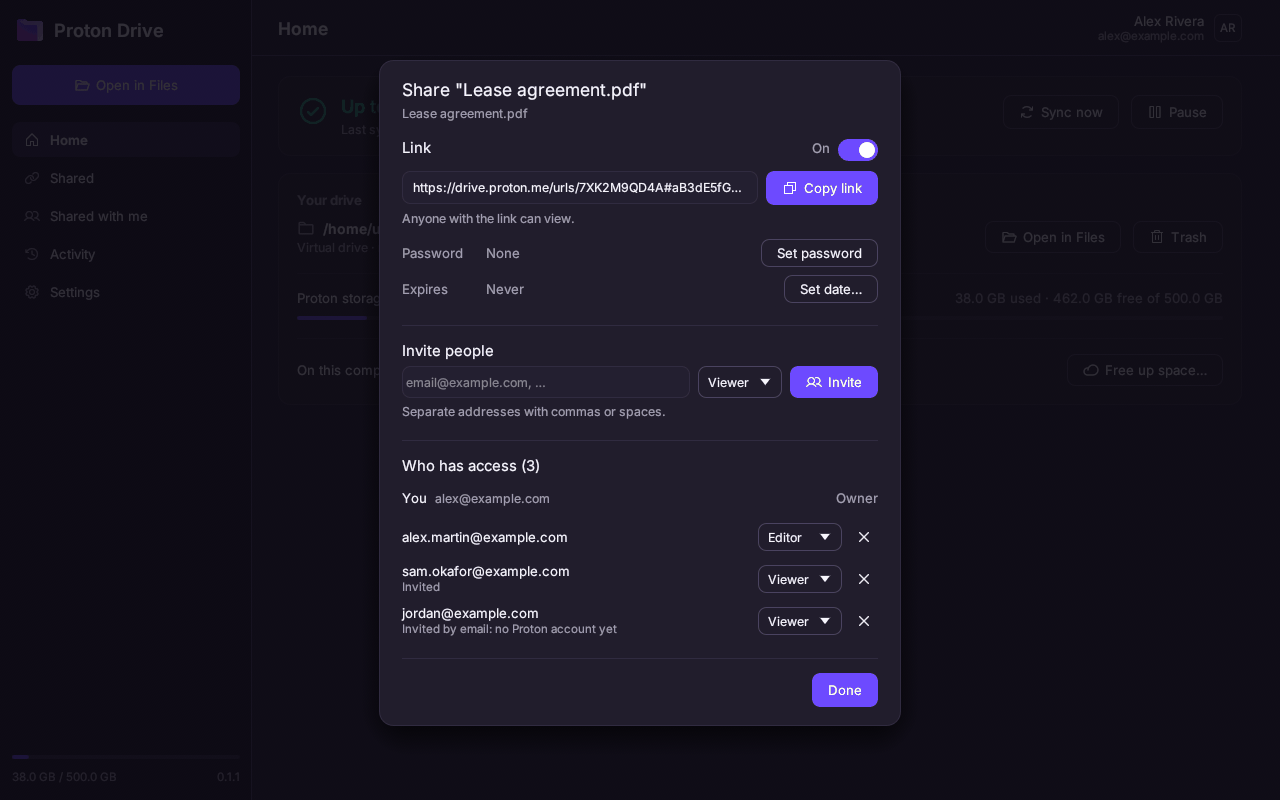
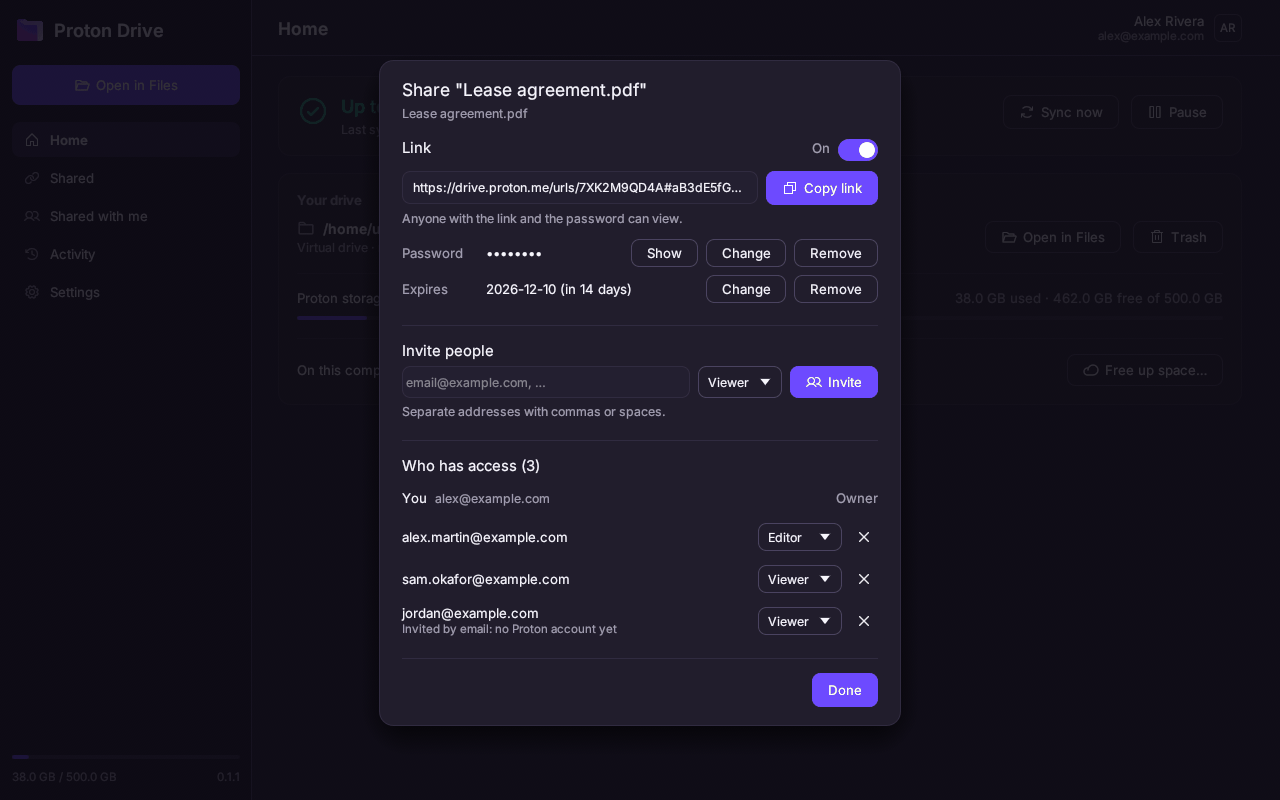
fix(scripts): the screenshot script works on pure Wayland, and the Share window matches its Shared row
Refs #520

diff --git a/native-gui/src/share.rs b/native-gui/src/share.rs
@@ -405,6 +405,18 @@ pub fn fake_share_info(state: &str, now_ms: i64, offset_at: impl Fn(i64) -> i64)
                 person("jordan@example.com", Role::Viewer, PersonState::InvitedNotProton),
             ],
         },
+        // The README's window: the Shared row of "Lease agreement.pdf" (link, password, expiry, 3 people), as `fake_shared("readme")` has it
+        "readme" => {
+            let fortnight = end_of_day(local_day(now_ms, &offset_at) + 14, &offset_at);
+            ShareInfo {
+                link: Some(link(true, Some(fortnight))),
+                people: vec![
+                    person("alex.martin@example.com", Role::Editor, PersonState::Member),
+                    person("sam.okafor@example.com", Role::Viewer, PersonState::Member),
+                    person("jordan@example.com", Role::Viewer, PersonState::InvitedNotProton),
+                ],
+            }
+        }
         _ => return None,
     })
 }
@@ -1547,6 +1559,17 @@ fn people_section(w: &mut ShareWindow, ui: &mut egui::Ui, people: &[SharePerson]
 #[cfg(test)]
 mod tests {
     use super::*;
+
+    #[test]
+    fn the_readme_share_fake_has_a_password_an_expiry_and_only_example_addresses() {
+        let now = 1_793_750_400_000;
+        let info = fake_share_info("readme", now, |_| 0).unwrap();
+        let link = info.link.expect("the link is on");
+        assert!(link.has_password);
+        assert!(link.expires_at.is_some_and(|t| t > now));
+        assert!(!info.people.is_empty());
+        assert!(info.people.iter().all(|p| p.email.ends_with("@example.com")));
+    }
 
     const CET: i64 = 3600;
     /// 2026-11-04 (a Wednesday) at 00:00 UTC, in epoch ms

diff --git a/native-gui/src/main.rs b/native-gui/src/main.rs
@@ -5074,7 +5074,7 @@ OPTIONS:
   --pause-choices       with --screenshot: show Home's Pause choices open
   --account-menu        with --screenshot: show the top bar's account menu open
   --fake-share <S>      with --screenshot: show the Share window (for --share's item, else Docs/report.pdf in the
-                        drive) as S (none | link | link-password | link-expired | people)
+                        drive) as S (none | link | link-password | link-expired | people | readme)
   --confirm-accept-unverified <NAME>  with --screenshot and --fake-shared-with-me invitations: show the question before accepting that invitation
   --confirm-leave <NAME>        with --screenshot and --fake-shared-with-me list: show the Leave confirmation for that row
   --confirm-stop-sharing <NAME>  with --screenshot and --fake-shared list: show the Stop sharing confirmation for that row
@@ -5299,7 +5299,7 @@ fn main() -> eframe::Result {
         Some(state) if screenshot_target.is_some() => {
             let info = share::fake_share_info(&state, home::now_ms(), home::local_offset_secs);
             if info.is_none() {
-                eprintln!("protondrive-gui: ignoring unknown --fake-share {state:?} (none | link | link-password | link-expired | people)");
+                eprintln!("protondrive-gui: ignoring unknown --fake-share {state:?} (none | link | link-password | link-expired | people | readme)");
             }
             info
         }

diff --git a/native-gui/src/shared.rs b/native-gui/src/shared.rs
@@ -223,7 +223,7 @@ pub fn fake_shared(state: &str, now_ms: i64) -> Option<Result<Vec<SharedItem>, S
         }
         // The README's page: a healthy account, with the items Activity names (no expired link, warning or unreadable row)
         "readme" => Ok(vec![
-            item("Lease agreement.pdf", ItemKind::File, Some("Documents/Lease agreement.pdf"), Place::MyFiles, Some(link(true, Some(now_ms + 14 * DAY))), 0),
+            item("Lease agreement.pdf", ItemKind::File, Some("Documents/Lease agreement.pdf"), Place::MyFiles, Some(link(true, Some(now_ms + 14 * DAY))), 3),
             item("Lisbon", ItemKind::Folder, Some("Photos/Lisbon"), Place::MyFiles, None, 2),
             item("Budget 2026", ItemKind::File, Some("Work/Budget 2026.protonsheet"), Place::MyFiles, None, 1),
             item("Garden plans.pdf", ItemKind::File, Some("Projects/Shed/Garden plans.pdf"), Place::MyFiles, Some(link(false, None)), 0),
